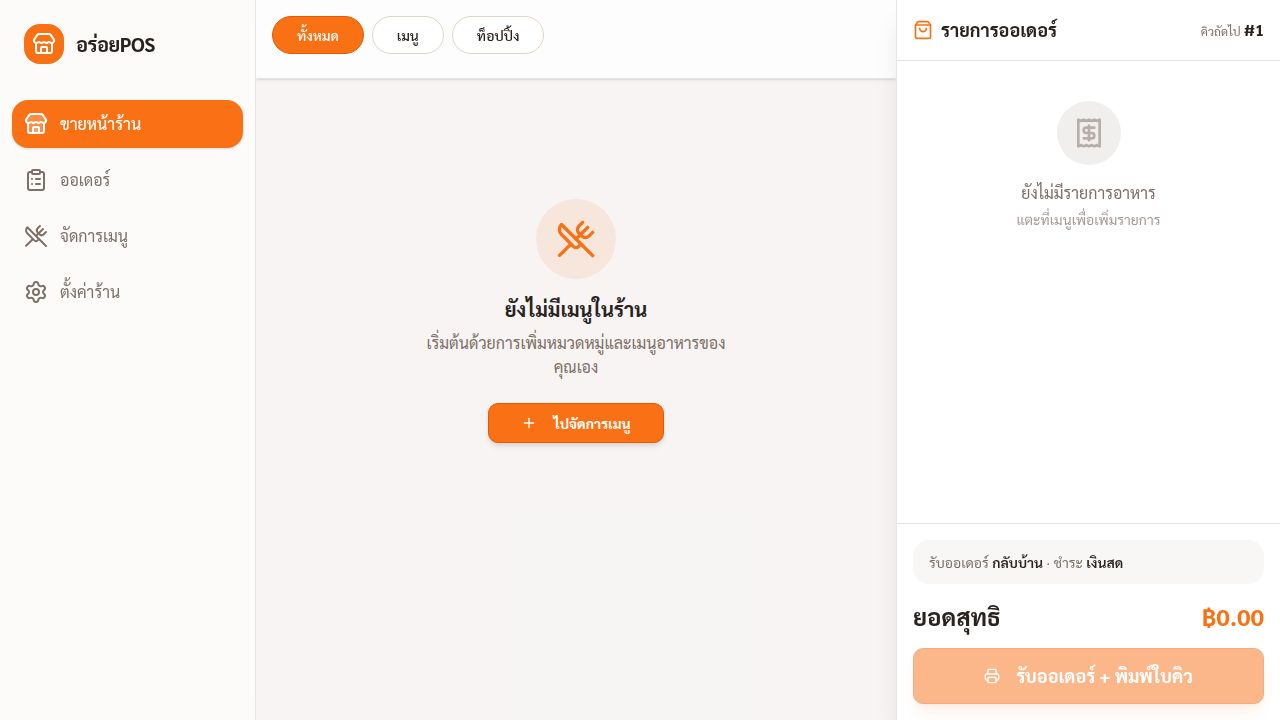
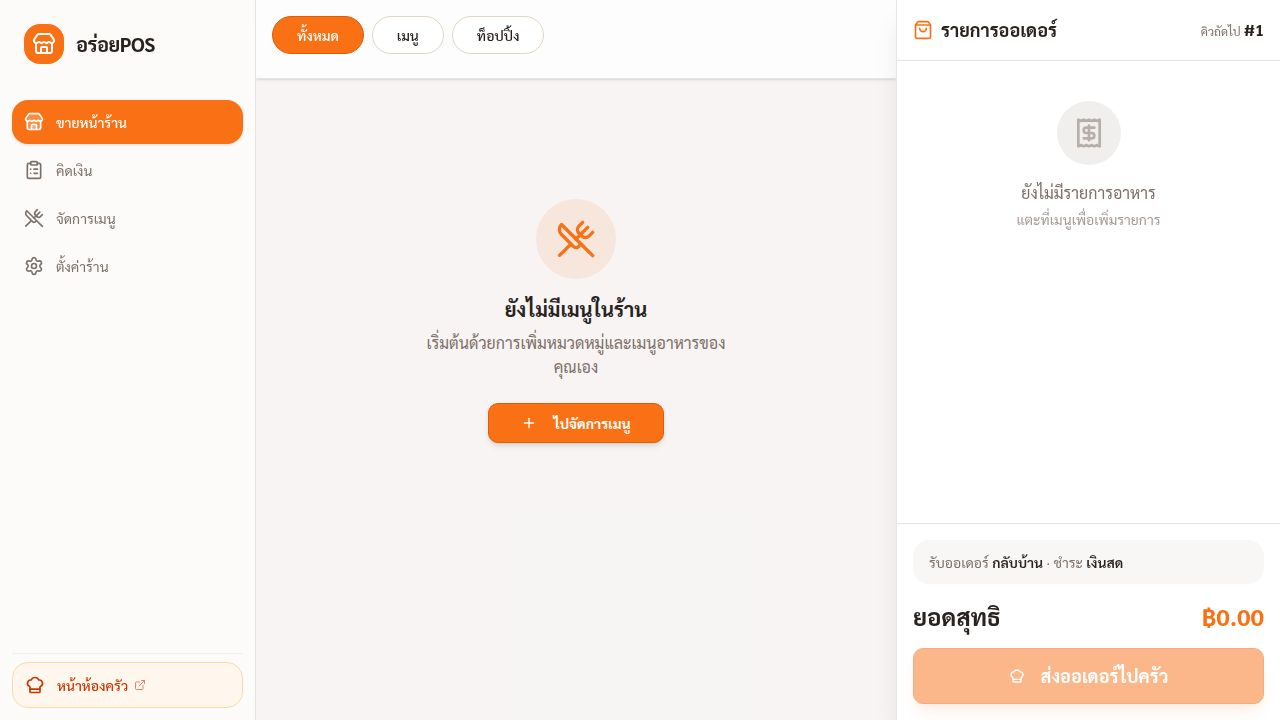
Improve overall user interface stability and consistency
Implement a fixed mobile header bar, shorten bottom navigation labels, and standardize page padding for a more cohesive user experience.

Replit-Commit-Author: Agent
Replit-Commit-Session-Id: 6b39a4fb-22cf-495b-94f6-ee4c1556bbe7
Replit-Commit-Checkpoint-Type: full_checkpoint
Replit-Commit-Event-Id: cb428dfa-1a74-4a43-95ef-cc42cf68c2ca
Replit-Commit-Screenshot-Url: https://storage.googleapis.com/screenshot-production-us-central1/a405efbb-056a-4129-8340-9b6c9b8cba48/6b39a4fb-22cf-495b-94f6-ee4c1556bbe7/oHlMFGW
Replit-Helium-Checkpoint-Created: true

diff --git a/artifacts/pos-restaurant/src/components/Layout.tsx b/artifacts/pos-restaurant/src/components/Layout.tsx
@@ -1,8 +1,8 @@
 import { Link, useLocation } from "wouter";
-import { 
-  Store, 
-  ClipboardList, 
-  UtensilsCrossed, 
+import {
+  Store,
+  ClipboardList,
+  UtensilsCrossed,
   Settings,
   ChefHat,
   ExternalLink,
@@ -10,18 +10,27 @@ import {
 import { cn } from "@/lib/utils";
 
 const navItems = [
-  { href: "/", icon: Store, label: "ขายหน้าร้าน" },
-  { href: "/orders", icon: ClipboardList, label: "คิดเงิน" },
-  { href: "/menu", icon: UtensilsCrossed, label: "จัดการเมนู" },
-  { href: "/settings", icon: Settings, label: "ตั้งค่าร้าน" },
+  { href: "/",         icon: Store,          label: "ขาย",    fullLabel: "ขายหน้าร้าน" },
+  { href: "/orders",   icon: ClipboardList,  label: "คิดเงิน", fullLabel: "คิดเงิน" },
+  { href: "/menu",     icon: UtensilsCrossed,label: "เมนู",   fullLabel: "จัดการเมนู" },
+  { href: "/settings", icon: Settings,        label: "ตั้งค่า", fullLabel: "ตั้งค่าร้าน" },
 ];
+
+const pageTitle: Record<string, string> = {
+  "/":         "ขายหน้าร้าน",
+  "/orders":   "คิดเงิน",
+  "/menu":     "จัดการเมนู",
+  "/settings": "ตั้งค่าร้าน",
+};
 
 export function Layout({ children }: { children: React.ReactNode }) {
   const [location] = useLocation();
+  const currentTitle = pageTitle[location] ?? "อร่อยPOS";
 
   return (
     <div className="flex h-[100dvh] w-full overflow-hidden bg-muted/30">
-      {/* Desktop Sidebar */}
+
+      {/* ───── Desktop Sidebar ───── */}
       <aside className="hidden md:flex flex-col w-20 lg:w-64 border-r bg-card/50 backdrop-blur shrink-0">
         <div className="p-4 lg:p-6 flex items-center justify-center lg:justify-start gap-3">
           <div className="bg-primary text-primary-foreground p-2 rounded-xl shrink-0">
@@ -35,16 +44,14 @@ export function Layout({ children }: { children: React.ReactNode }) {
             const isActive = location === item.href;
             return (
               <Link key={item.href} href={item.href}>
-                <div
-                  className={cn(
-                    "flex items-center gap-3 px-3 py-3 rounded-xl transition-all cursor-pointer",
-                    isActive 
-                      ? "bg-primary text-primary-foreground font-medium shadow-sm" 
-                      : "text-muted-foreground hover:bg-muted/80 hover:text-foreground"
-                  )}
-                >
+                <div className={cn(
+                  "flex items-center gap-3 px-3 py-3 rounded-xl transition-all cursor-pointer",
+                  isActive
+                    ? "bg-primary text-primary-foreground font-medium shadow-sm"
+                    : "text-muted-foreground hover:bg-muted/80 hover:text-foreground"
+                )}>
                   <item.icon className={cn("size-5 shrink-0", isActive && "fill-primary-foreground/20")} />
-                  <span className="hidden lg:block text-sm">{item.label}</span>
+                  <span className="hidden lg:block text-sm">{item.fullLabel}</span>
                 </div>
               </Link>
             );
@@ -67,18 +74,41 @@ export function Layout({ children }: { children: React.ReactNode }) {
         </nav>
       </aside>
 
-      {/* Main Content */}
-      <main className="flex-1 relative flex flex-col h-full overflow-hidden min-w-0">
+      {/* ───── Mobile Top Bar ───── */}
+      <header className="md:hidden fixed top-0 left-0 right-0 z-50 h-14 bg-card/95 backdrop-blur border-b flex items-center px-4 gap-3 shadow-sm">
+        <div className="bg-primary text-primary-foreground p-1.5 rounded-lg shrink-0">
+          <Store className="size-4" />
+        </div>
+        <div className="flex-1 min-w-0">
+          <p className="text-xs text-muted-foreground leading-none mb-0.5">อร่อยPOS</p>
+          <p className="font-bold text-sm leading-none truncate">{currentTitle}</p>
+        </div>
+        <a
+          href="/kitchen"
+          target="_blank"
+          rel="noopener noreferrer"
+          className="flex items-center gap-1.5 bg-orange-500 text-white text-xs font-semibold px-3 py-1.5 rounded-lg shrink-0"
+        >
+          <ChefHat className="size-3.5" />
+          ครัว
+        </a>
+      </header>
+
+      {/* ───── Main Content ───── */}
+      <main className="flex-1 relative flex flex-col h-full overflow-hidden min-w-0 pt-14 md:pt-0">
         {children}
       </main>
 
-      {/* Mobile Bottom Tab */}
-      <nav className="md:hidden fixed bottom-0 left-0 right-0 bg-card border-t flex items-stretch z-50" style={{ paddingBottom: "env(safe-area-inset-bottom)" }}>
+      {/* ───── Mobile Bottom Tab Bar ───── */}
+      <nav
+        className="md:hidden fixed bottom-0 left-0 right-0 bg-card border-t flex items-stretch z-50"
+        style={{ paddingBottom: "env(safe-area-inset-bottom, 0px)" }}
+      >
         {navItems.map((item) => {
           const isActive = location === item.href;
           return (
             <Link key={item.href} href={item.href} className="flex-1">
-              <div className="flex flex-col items-center justify-center py-2 px-1 h-full cursor-pointer">
+              <div className="flex flex-col items-center justify-center py-2 h-16 cursor-pointer">
                 <div className={cn(
                   "p-1.5 rounded-xl transition-colors",
                   isActive ? "bg-primary/10 text-primary" : "text-muted-foreground"
@@ -86,8 +116,8 @@ export function Layout({ children }: { children: React.ReactNode }) {
                   <item.icon className={cn("size-5", isActive && "fill-primary/20")} />
                 </div>
                 <span className={cn(
-                  "text-[10px] mt-0.5 transition-colors leading-tight text-center",
-                  isActive ? "text-primary font-semibold" : "text-muted-foreground"
+                  "text-[10px] mt-0.5 leading-tight text-center font-medium transition-colors",
+                  isActive ? "text-primary" : "text-muted-foreground"
                 )}>
                   {item.label}
                 </span>
@@ -95,12 +125,13 @@ export function Layout({ children }: { children: React.ReactNode }) {
             </Link>
           );
         })}
-        {/* Kitchen shortcut on mobile */}
+
+        {/* Kitchen shortcut */}
         <a
           href="/kitchen"
           target="_blank"
           rel="noopener noreferrer"
-          className="flex-1 flex flex-col items-center justify-center py-2 px-1 text-orange-600"
+          className="flex-1 flex flex-col items-center justify-center py-2 h-16 text-orange-600"
         >
           <div className="p-1.5 rounded-xl bg-orange-50">
             <ChefHat className="size-5" />

diff --git a/artifacts/pos-restaurant/src/pages/Orders.tsx b/artifacts/pos-restaurant/src/pages/Orders.tsx
@@ -69,20 +69,21 @@ export default function Orders() {
 
   return (
     <div className="flex-1 flex flex-col overflow-hidden">
-      <div className="flex-1 overflow-y-auto p-4 lg:p-8 pb-24 md:pb-8 bg-muted/10">
+      <div className="flex-1 overflow-y-auto p-4 lg:p-8 pb-20 md:pb-8 bg-muted/10">
         <div className="max-w-5xl mx-auto space-y-5">
 
           {/* Header */}
-          <div className="flex flex-col sm:flex-row justify-between items-start sm:items-center gap-3">
+          <div className="flex justify-between items-center gap-3">
             <div>
-              <h1 className="text-2xl font-bold tracking-tight">ออเดอร์ / คิดเงิน</h1>
-              <p className="text-muted-foreground text-sm">จัดการออเดอร์และปิดบิล</p>
+              <h1 className="text-xl sm:text-2xl font-bold tracking-tight">ออเดอร์ / คิดเงิน</h1>
+              <p className="text-muted-foreground text-xs sm:text-sm">จัดการออเดอร์และปิดบิล</p>
             </div>
+            {/* Desktop only — mobile uses the top bar kitchen shortcut */}
             <a
               href="/kitchen"
               target="_blank"
               rel="noopener noreferrer"
-              className="inline-flex items-center gap-2 bg-orange-500 hover:bg-orange-600 text-white font-semibold text-sm px-4 py-2.5 rounded-xl transition-colors shadow-sm"
+              className="hidden sm:inline-flex items-center gap-2 bg-orange-500 hover:bg-orange-600 text-white font-semibold text-sm px-4 py-2.5 rounded-xl transition-colors shadow-sm"
             >
               <ChefHat className="size-4" />
               หน้าห้องครัว